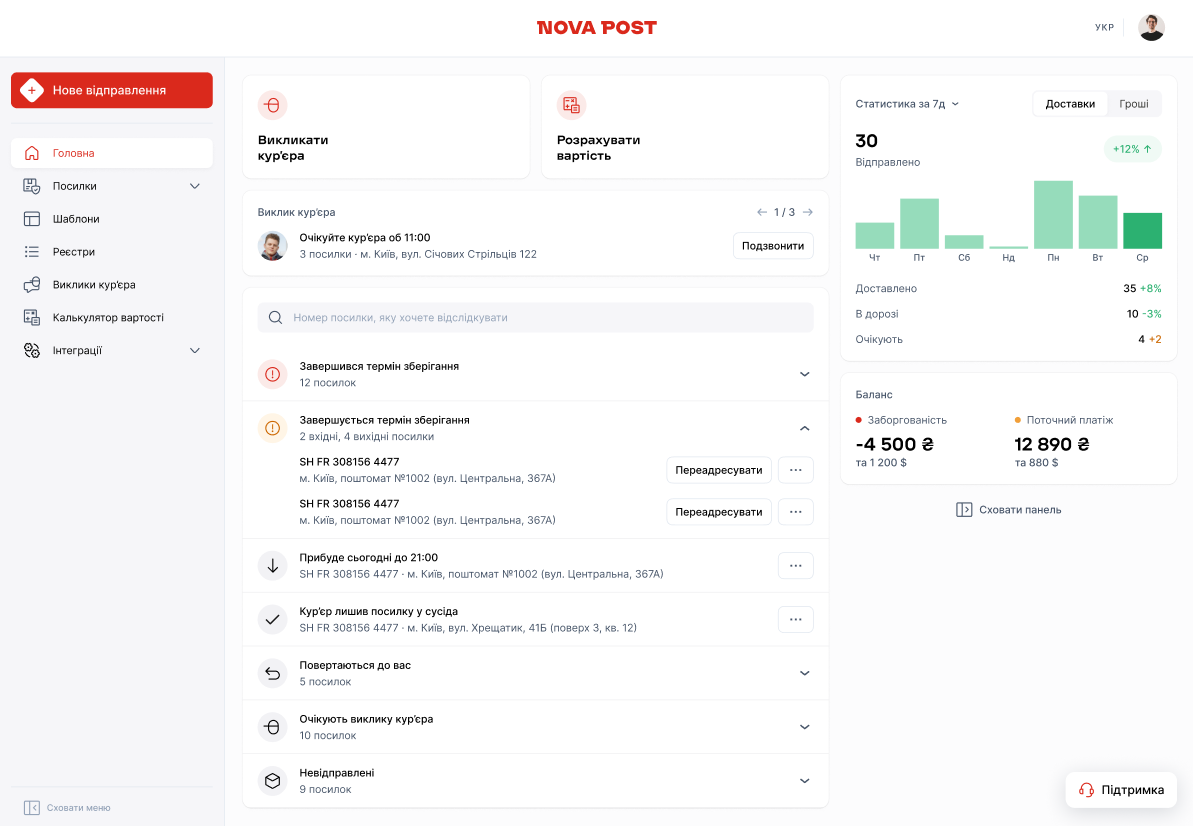
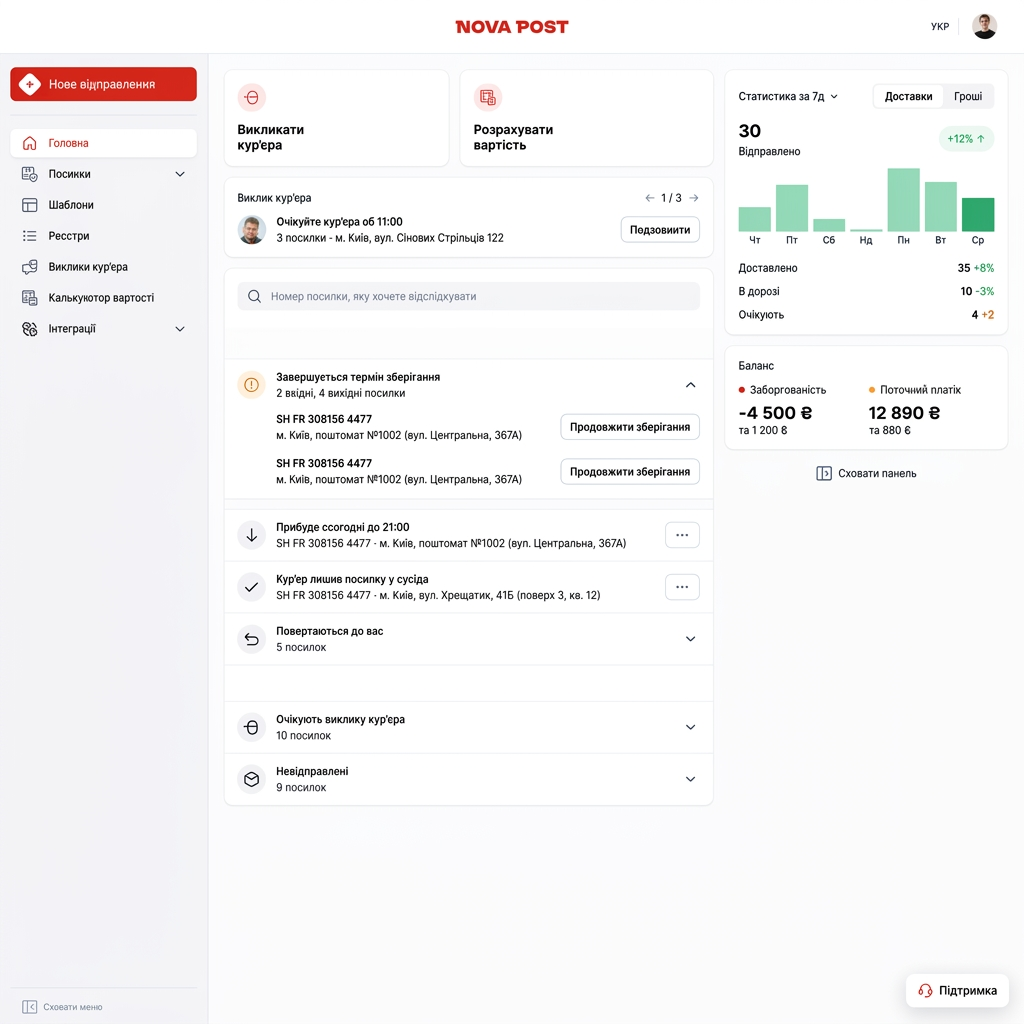
Update UI mockup image and adjust FAQ text according to the changes

diff --git a/index.html b/index.html
@@ -305,7 +305,7 @@
                         <span class="icon">+</span>
                     </button>
                     <div class="accordion-content">
-                        <p>У цей блок автоматично підтягуються посилки, з якими виникли проблеми: закінчується термін безкоштовного зберігання, статус змінився на "відмова" тощо. Ви можете прямо звідси натиснути "Продовжити зберігання" або "Переадресація", рятуючи замовлення.</p>
+                        <p>У цей блок автоматично підтягуються посилки, з якими виникли проблеми: закінчується термін безкоштовного зберігання тощо. Ви можете прямо звідси натиснути "Продовжити зберігання", рятуючи замовлення.</p>
                     </div>
                 </div>
                 <div class="accordion-item">
